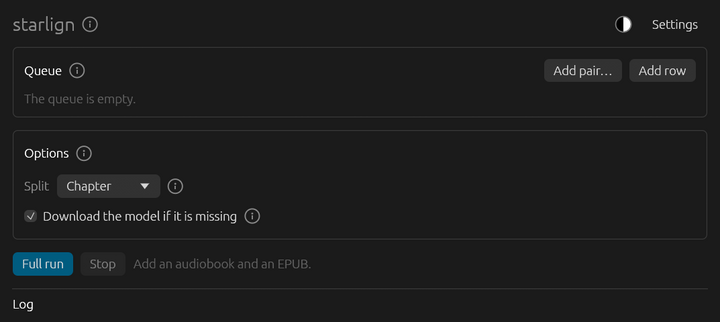
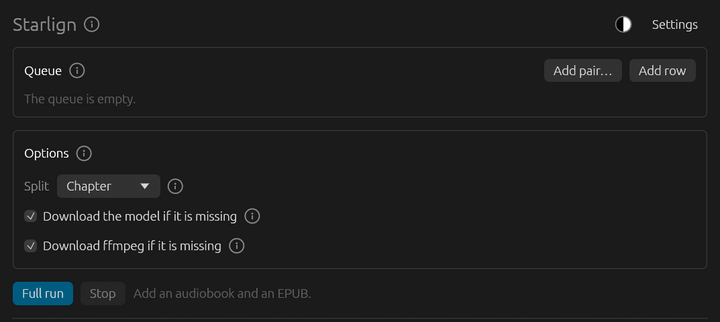
Name the project Starlign.

Changed region(s): [[0.0, 0.7453, 0.4278, 0.9627], [0.0, 0.0311, 0.1528, 0.1242]]

diff --git a/starlign/src/gui.rs b/starlign/src/gui.rs
@@ -17,13 +17,13 @@ const AUDIO_EXTS: &[&str] = &["m4b", "m4a", "mp3", "flac", "ogg", "wav", "aac", 
 pub fn launch() -> Result<()> {
     let options = eframe::NativeOptions {
         viewport: egui::ViewportBuilder::default()
-            .with_title("starlign")
+            .with_title("Starlign")
             .with_inner_size([920.0, 860.0])
             .with_min_inner_size([640.0, 520.0]),
         ..Default::default()
     };
     eframe::run_native(
-        "starlign",
+        "Starlign",
         options,
         Box::new(|cc| {
             let mut window = AlignerWindow::default();
@@ -525,7 +525,7 @@ impl AlignerWindow {
     fn header(&mut self, ui: &mut egui::Ui) {
         let busy = self.running();
         ui.horizontal(|ui| {
-            ui.heading("starlign");
+            ui.heading("Starlign");
             tip_button(
                 ui,
                 &format!(

diff --git a/starlign/src/epub.rs b/starlign/src/epub.rs
@@ -22,8 +22,8 @@ pub const READALOUD_CSS: &str = "\
   color: inherit;\n\
 }\n";
 
-/// `epub:type` prefix written by this tool. The URI names starlign.
-const STARLIGN_PREFIX: &str = "starlign: https://github.com/tpqwz/starlign";
+/// `epub:type` prefix written by this tool. The URI names the Starlign repository.
+const STARLIGN_PREFIX: &str = "starlign: https://github.com/tpqwz/Starlign";
 
 #[derive(Clone, Copy, Debug, PartialEq, Eq)]
 pub enum SpanKind {

diff --git a/README.md b/README.md
@@ -1,10 +1,10 @@
-# starlign
+# Starlign
 
-<img src="docs/window.png" width="720" alt="The starlign window. Split is Chapter, and the queue is empty.">
+<img src="docs/window.png" width="720" alt="The Starlign window. Split is Chapter, and the queue is empty.">
 
 This is alpha. The tool is early, and it may still shift.
 
-starlign lines up an audiobook with an EPUB and writes an EPUB 3 media overlay. With no split, the sound is put in as it was. A split makes each chapter file into MP3. ffmpeg is fetched when it is missing, if you ask. It is not in the release zip. ffmpeg is GPL. The build also holds LAME, which is LGPL.
+Starlign lines up an audiobook with an EPUB and writes an EPUB 3 media overlay. With no split, the sound is put in as it was. A split makes each chapter file into MP3. ffmpeg is fetched when it is missing, if you ask. It is not in the release zip. ffmpeg is GPL. The build also holds LAME, which is LGPL.
 
 One Rust tool does the work. A window opens when you start it. The same tool also runs from the shell as `run`, `emit`, or `align`.
 

diff --git a/docs/macos.md b/docs/macos.md
@@ -1,4 +1,4 @@
-# Building starlign for macOS
+# Building Starlign for macOS
 
 A Linux machine cannot link this program for a Mac. The Apple SDK stays on a Mac. Nothing in this tree downloads one.
 
